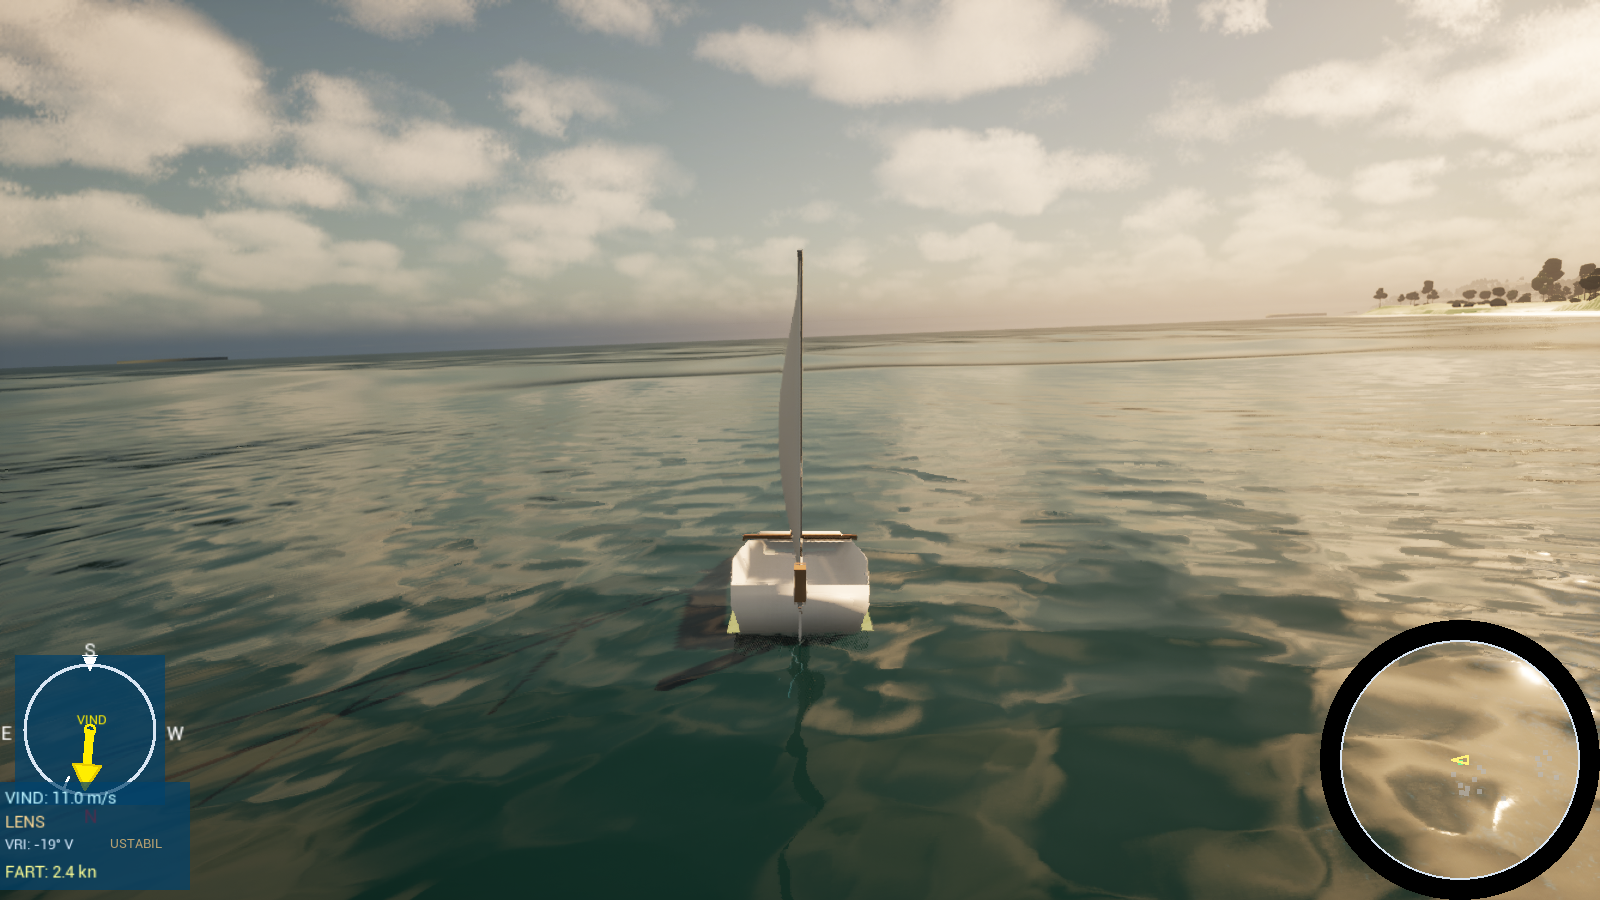
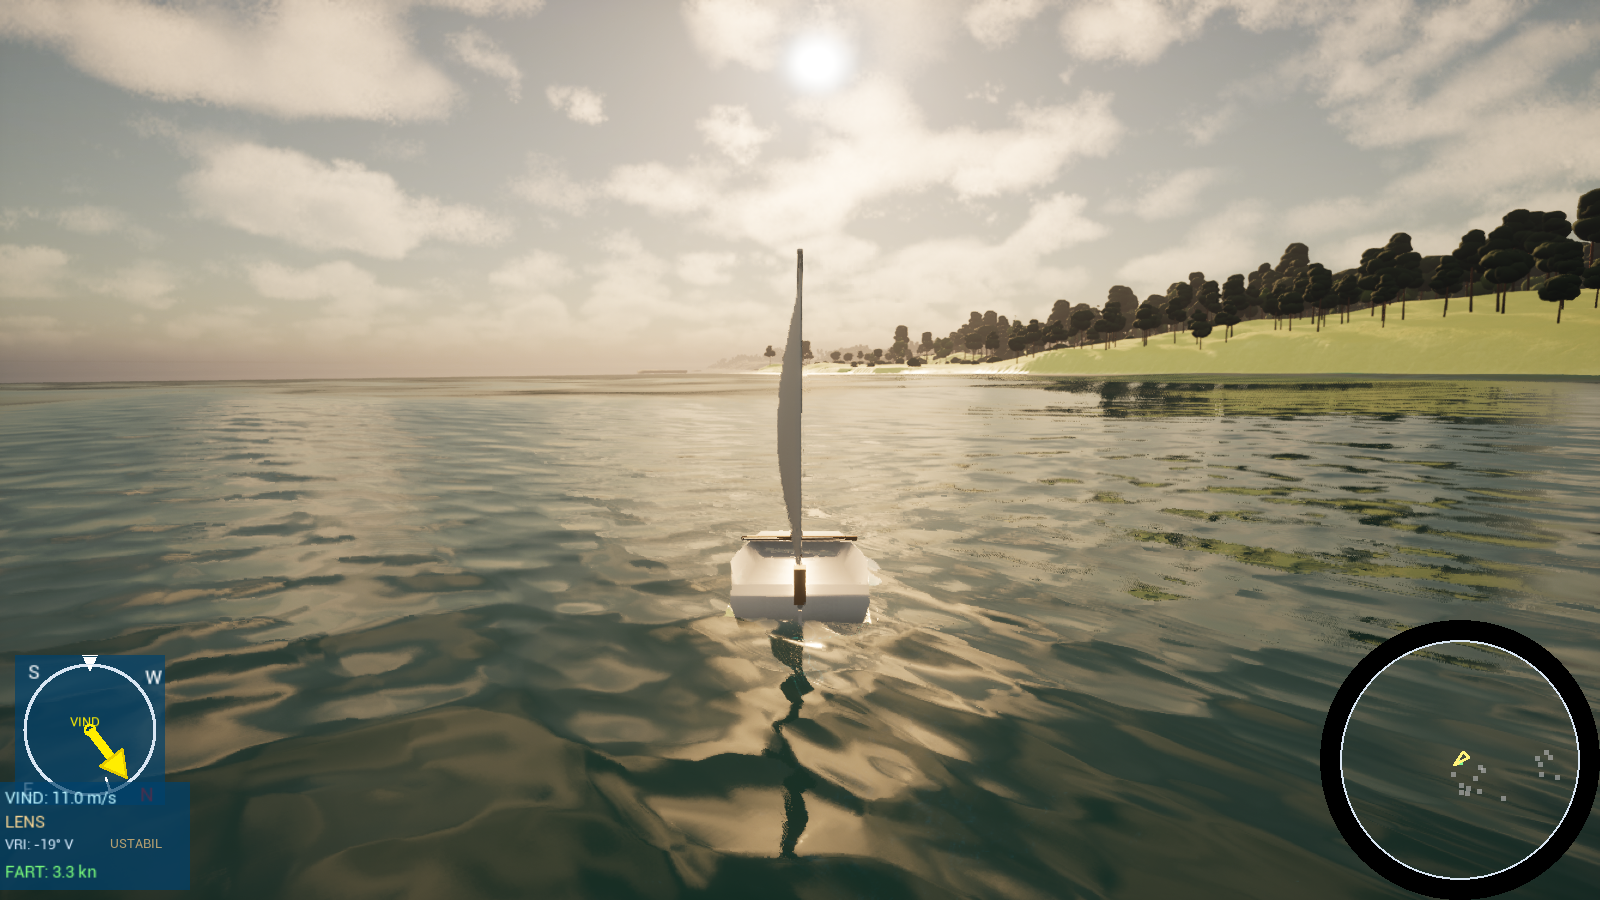
Båten kaster ikke skygge på vannet: også skrogets skygge så ut som synlig bunn
I Single Layer Water blir enhver skygge et mørkt, flekkete felt (bare himmelspeiling
igjen), så skrogets 2–3 m skygge leste som «bunnen rett under båten». Hele BoatMesh
får CastShadow=false; per-seksjons-hacket for seilet fjernet.

diff --git a/Source/Sailing/Private/SailboatPawn.cpp b/Source/Sailing/Private/SailboatPawn.cpp
@@ -1,6 +1,5 @@
 #include "SailboatPawn.h"
 #include "Sailing.h"
-#include "StaticMeshResources.h"
 #include "SailingPlayerController.h"
 #include "WindActor.h"
 #include "Components/SceneComponent.h"
@@ -47,7 +46,7 @@ ASailboatPawn::ASailboatPawn()
 	BoatMesh = CreateDefaultSubobject<UStaticMeshComponent>(TEXT("BoatMesh"));
 	BoatMesh->SetupAttachment(CapsuleComp);
 	BoatMesh->SetCollisionEnabled(ECollisionEnabled::NoCollision);
-	BoatMesh->SetCastShadow(true);
+	BoatMesh->SetCastShadow(false);   // se BeginPlay
 
 	// Plan bak i båten (stern) – ugjennomtrengelig, så man ikke ser «inn» bakfra
 	SternShield = CreateDefaultSubobject<UStaticMeshComponent>(TEXT("SternShield"));
@@ -102,27 +101,13 @@ void ASailboatPawn::BeginPlay()
 		BoatMesh->SetRelativeScale3D(FVector(1.0f, 1.0f, 1.0f));
 		// FBX-materialer fra Blender brukes direkte (M_Hull, M_Sail, M_Wood, M_Board)
 
-		// Seilet kaster ikke skygge. Sola står lavt («gyllen time»), så det 3,5 m høye seilet kaster
-		// en ~30 m lang skygge på vannet — og i Single Layer Water blir en skygge ikke bare mørkere:
-		// uten sol-spredning gjenstår bare speilingen av den gulbrune himmelen, og stripen ser ut som
-		// mudder bak båten. Skrogets skygge (2–3 m) beholdes. Per-seksjons-flagget finnes bare på
-		// asseten/renderdataene (ikke på komponenten), så det settes her i minnet — asseten røres ikke.
-		if (FStaticMeshRenderData* RenderData = BoatCombinedMesh->GetRenderData())
-		{
-			const TArray<FStaticMaterial>& Mats = BoatCombinedMesh->GetStaticMaterials();
-			for (FStaticMeshLODResources& LOD : RenderData->LODResources)
-			{
-				for (FStaticMeshSection& Section : LOD.Sections)
-				{
-					if (Mats.IsValidIndex(Section.MaterialIndex)
-						&& Mats[Section.MaterialIndex].MaterialSlotName.ToString().StartsWith(TEXT("M_Sail")))
-					{
-						Section.bCastShadow = false;
-					}
-				}
-			}
-			BoatMesh->MarkRenderStateDirty();
-		}
+		// Båten kaster ikke skygge på vannet. I Single Layer Water blir en skygge ikke bare mørkere:
+		// der sola ikke treffer forsvinner sol-spredningen, og det som gjenstår er speilingen av den
+		// gulbrune «gyllen time»-himmelen — seilets ~30 m lange skygge så ut som en mudderstripe, og
+		// skrogets 2–3 m skygge som om man så bunnen rett under båten. Verifisert med --boat-shot og
+		// ShowFlag.DynamicShadows 0. Sol og himmel skygger fortsatt skroget selv (self-shadow er av
+		// samme flagg, men det tapet er knapt synlig på en hvit Optimist).
+		BoatMesh->SetCastShadow(false);
 	}
 	else
 	{
